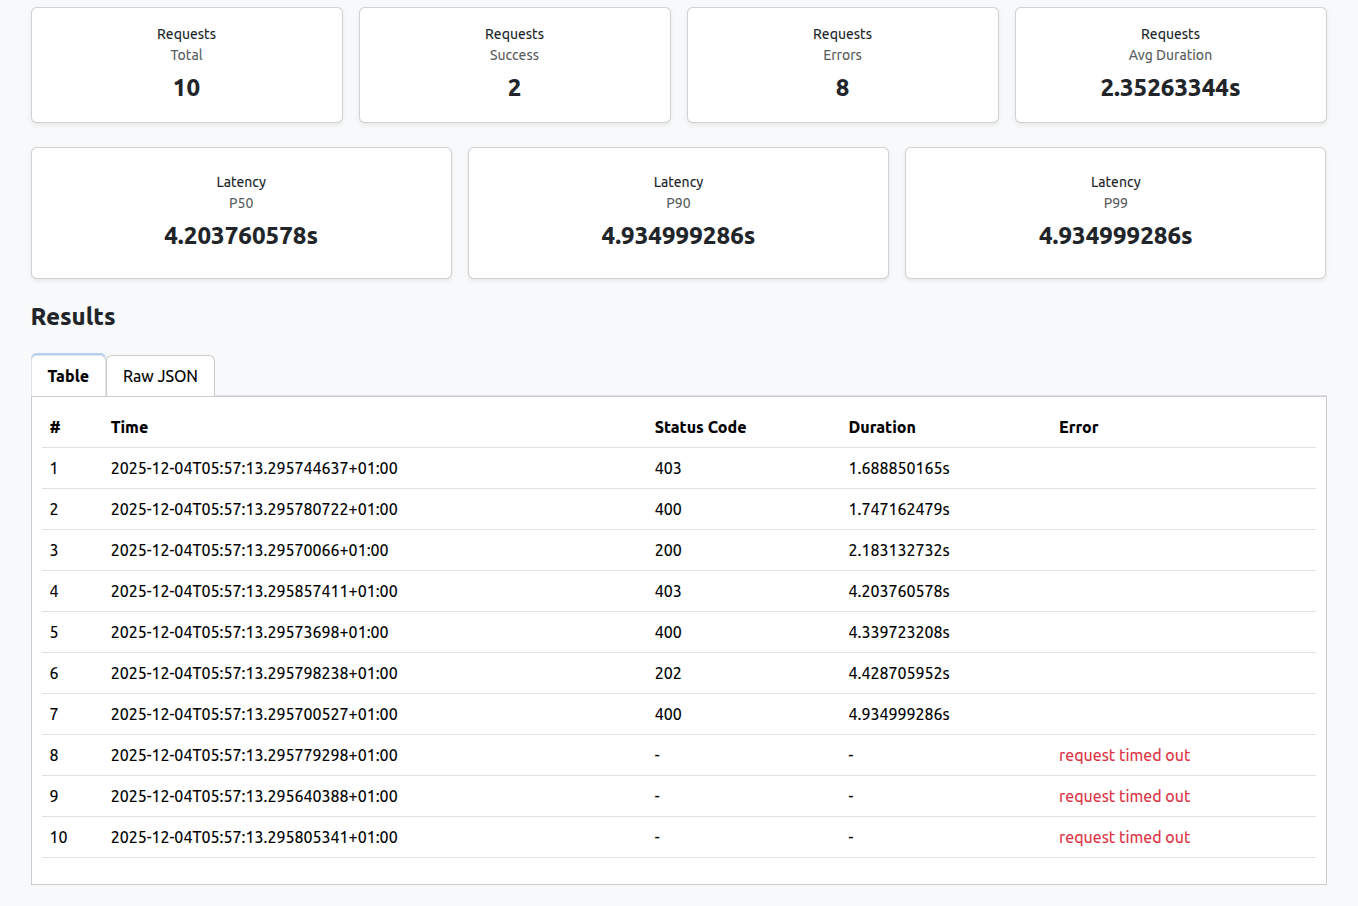
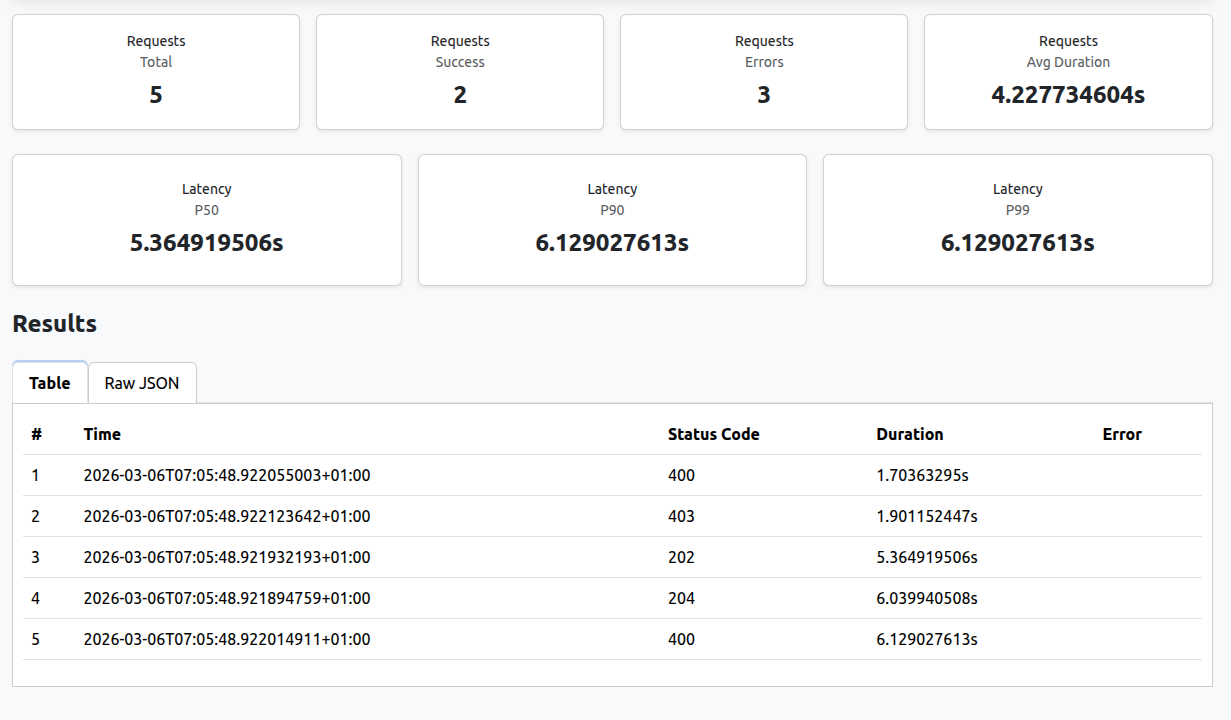
Update readme

diff --git a/README.md b/README.md
@@ -1,148 +1,154 @@
-# 🚀 ParallelHTTP
+<div align="center">
 
-A lightweight tool for testing APIs by sending multiple **parallel HTTP requests**.
+# ParallelHTTP
 
-It includes:
+**Send parallel HTTP requests. Measure latency. Stress-test your APIs.**
 
-- 💻 **Web UI**  
-- 🐳 **Docker image**  
-- 💼 **CLI mode**  
-- 🧩 **REST API endpoint**
+[![Go Version](https://img.shields.io/badge/go-1.24-00ADD8?logo=go&logoColor=white)](https://go.dev)
+[![Docker Pulls](https://img.shields.io/docker/pulls/nicumicle/parallelhttp)](https://hub.docker.com/r/nicumicle/parallelhttp)
+[![GitHub Release](https://img.shields.io/github/v/release/nicumicle/parallelhttp)](https://github.com/nicumicle/parallelhttp/releases)
+[![License: MIT](https://img.shields.io/badge/license-MIT-green)](./LICENSE)
 
----
+![Screenshot](./screenshot.png)
 
-## 🛠 Features
-
-- Send multiple parallel HTTP requests  
-- Configure method, endpoint, body, timeout  
-- Track response time & status  
-- Aggregated summary: success/error, avg latency  
-- Export responses to CSV  
-- Web UI for interactive testing  
-- CLI for quick terminal runs  
+</div>
 
 ---
 
-## ⚠ Disclaimer
+## Overview
 
-This tool is intended **only for testing APIs, servers, and domains that you own or have explicit permission to test**.  
-Running parallel or high-volume requests against systems without authorization may violate:
+ParallelHTTP is a lightweight, zero-dependency tool for load testing and benchmarking HTTP APIs. Configure the number of concurrent requests, method, timeout, and duration — then get back structured results with latency percentiles and per-request status codes.
 
-- Terms of Service  
-- Local or international laws  
-- Computer misuse or anti-fraud regulations  
-- Responsible use and security policies  
-
-> [!IMPORTANT]  
-> By using this tool, **you agree that you are solely responsible for ensuring you have proper authorization** to test the target systems.  
-> The authors and contributors of this project assume **no liability** for any misuse, damage, or legal consequences resulting from unauthorized or unethical use.
->
-> **Use responsibly. Test only what you own.**
+It ships as a single binary, a Docker image, and a Web UI — so you can use whichever fits your workflow.
 
 ---
 
-## 📦 Installation
+## Features
 
-You can use ParallelHTTP via **binary**, **Docker**, **Web UI**, or **CLI**.
+| | |
+|---|---|
+| Parallel requests | Fire N requests simultaneously and collect every response |
+| Latency percentiles | P50, P90, P99 aggregated across all requests |
+| Multiple output formats | `json`, `yaml`, or `text` |
+| Web UI | Visual interface for interactive testing in the browser |
+| CLI | Scriptable, CI-friendly terminal usage |
+| CSV export | Download results directly from the Web UI |
+| Test endpoint | Built-in endpoint that returns random responses for trying things out |
 
-### 1⃣ Install Using Binaries (Recommended)
+---
 
-Download the latest release from:  
-👉 [**GitHub Releases**](https://github.com/nicumicle/parallelhttp/releases)
+## Quick Start
 
-Run:
+The fastest way to get up and running:
 
 ```bash
+# Run the Web UI with Docker — no installation needed
+docker run --rm -p 8080:8080 nicumicle/parallelhttp
+```
+
+Then open [http://localhost:8080](http://localhost:8080) in your browser.
+
+---
+
+## Installation
+
+### Binary (Recommended)
+
+Download the pre-built binary for your OS from the [Releases page](https://github.com/nicumicle/parallelhttp/releases).
+
+**macOS / Linux:**
+```bash
+# Make it executable
+chmod +x parallelhttp
+
+# Confirm it works
 ./parallelhttp --help
 ```
 
-### 2⃣ Install From Source
+**Windows:**
+
+Download `parallelhttp.exe` and run it from Command Prompt or PowerShell:
+```powershell
+.\parallelhttp.exe --help
+```
+
+---
+
+### Docker
+
+```bash
+docker run --rm -p 8080:8080 nicumicle/parallelhttp
+```
+
+---
+
+### Build from Source
+
+Requires [Go 1.24+](https://go.dev/dl/).
 
 ```bash
 git clone https://github.com/nicumicle/parallelhttp.git
 cd parallelhttp
+
+# Build the binary
+go build -o parallelhttp ./cmd/cli/main.go
 ```
 
-## 🖥 Web UI
+---
 
-### ▶ Option A — Run the UI with Docker
+## Usage
 
-```shell
-docker run --rm -p 8080:8080 -it nicumicle/parallelhttp
-```
+### Web UI
 
-Open in browser:
-👉 [http://localhost:8080](http://localhost:8080)
+Start the server using any of the following methods:
 
-### ▶ Option B — Run the UI from cli
-
-```shell
+```bash
+# Using the binary
 ./parallelhttp --serve --port=8080
-```
 
-Open in browser:
-👉 [http://localhost:8080](http://localhost:8080)
+# Using Docker
+docker run --rm -p 8080:8080 nicumicle/parallelhttp
 
-### ▶ Option C — Run the UI from Go
-
-```shell
+# From source
 go run cmd/service/main.go
 ```
 
-This service also provides a testing endpoint:
+Open [http://localhost:8080](http://localhost:8080) in your browser.
 
-Test endpoint (returns random responses)
-👉 [http://localhost:8080/test](http://localhost:8080/test)
+**Results:**
 
-### 📷 Screenshots
+![Results Screenshot](./screenshot-2.png)
 
-![Screenshot](./screenshot.png)
+---
 
-Results:
+### CLI
 
-![Screenshot](./screenshot-2.png)
+Run parallel requests directly from your terminal.
 
-## 💼 CLI Usage
-
-You can run the CLI using the binary or from source.
-
-### ▶ Option A — CLI Binary
-
-```shell
-./parallelhttp --help
-```
-
-### ▶ Option B — Run CLI from Source
-
-```shell
-go run cmd/cli/main.go --help
-```
-
-```
-CLI Flags
-  -duration duration    Max duration for all calls. 0 = no limit
-  -endpoint string      Required. Target URL
-  -format string        text | yaml | json (default: json)
-  -method string        GET POST PUT PATCH DELETE (default: GET)
-  -parallel int         Number of parallel requests (default: 1)
-  -timeout duration     Request timeout (default: 10s)
-  -serve bool           Starts the HTTP server
-  -port int             Port for the HTTP Server(default: 8080)
-```
-
-Example
-
-```shell
-go run cmd/cli/main.go \
-  --endpoint=http://localhost:8080/test \
-  --parallel=5 \
+```bash
+./parallelhttp \
+  --endpoint=https://api.example.com/health \
+  --parallel=10 \
   --method=GET \
   --timeout=2s \
-  --duration=10s \
+  --duration=30s \
   --format=json
 ```
 
-Output:
+**Flags:**
+
+| Flag | Required | Description | Default |
+|------|----------|-------------|---------|
+| `--endpoint` | Yes | Target URL | — |
+| `--parallel` | No | Number of concurrent requests | `1` |
+| `--method` | No | HTTP method: `GET` `POST` `PUT` `PATCH` `DELETE` | `GET` |
+| `--timeout` | No | Per-request timeout (e.g. `500ms`, `2s`) | `10s` |
+| `--duration` | No | Total run duration (e.g. `30s`, `5m`). `0` = unlimited | `0` |
+| `--format` | No | Output format: `json` `yaml` `text` | `json` |
+| `--serve` | No | Start the Web UI server | — |
+| `--port` | No | Web UI server port | `8080` |
+
+**Example output (`--format=json`):**
 
 ```json
 {
@@ -150,85 +156,66 @@ Output:
     {
       "response": {
         "status_code": 200,
-        "time": "2025-12-02T04:39:26.450811405+01:00",
+        "time": "2025-12-02T04:39:26.450811Z",
         "duration": 176680135,
-        "duration_h": "176.680135ms"
-      },
-      "error": null,
-      "error_message": null
-    },
-    {
-      "response": {
-        "status_code": 200,
-        "time": "2025-12-02T04:39:26.450838753+01:00",
-        "duration": 177105875,
-        "duration_h": "177.105875ms"
-      },
-      "error": null,
-      "error_message": null
-    },
-    {
-      "response": {
-        "status_code": 200,
-        "time": "2025-12-02T04:39:26.450989804+01:00",
-        "duration": 176999320,
-        "duration_h": "176.99932ms"
-      },
-      "error": null,
-      "error_message": null
-    },
-    {
-      "response": {
-        "status_code": 200,
-        "time": "2025-12-02T04:39:26.450761076+01:00",
-        "duration": 177158817,
-        "duration_h": "177.158817ms"
-      },
-      "error": null,
-      "error_message": null
-    },
-    {
-      "response": {
-        "status_code": 200,
-        "time": "2025-12-02T04:39:26.450879196+01:00",
-        "duration": 179940733,
-        "duration_h": "179.940733ms"
+        "duration_h": "176.68ms"
       },
       "error": null,
       "error_message": null
     }
   ],
   "stats": {
-    "start_time": "2025-12-02T04:39:26.450727731+01:00",
-    "end_time": "2025-12-02T04:39:26.630824982+01:00",
-    "duration": "180.097251ms",
+    "start_time": "2025-12-02T04:39:26.450727Z",
+    "end_time": "2025-12-02T04:39:26.630824Z",
+    "duration": "180.09ms",
     "latency": {
-      "p50": "177.105875ms",
-      "p90": "179.940733ms",
-      "p99": "179.940733ms"
+      "p50": "177.10ms",
+      "p90": "179.94ms",
+      "p99": "179.94ms"
     }
   }
 }
 ```
 
-## 🧩 REST Endpoint
+---
 
-When running the UI service:
+### REST API
 
-```shell
+When the server is running, a built-in test endpoint is available that returns random HTTP responses. It is useful for verifying your setup before pointing the tool at a real API.
+
+```bash
 curl http://localhost:8080/test
 ```
 
-## 🧡 Credits
+---
 
-Built with [Go](https://go.dev/), [Bootstrap](https://getbootstrap.com/), and curiosity.
+## Responsible Use
 
+> [!IMPORTANT]
+> ParallelHTTP is intended **only for testing APIs, servers, and domains you own or have explicit permission to test.**
+>
+> Sending high-volume requests to systems without authorization may violate terms of service, computer misuse laws, or security policies. **The authors assume no liability for any misuse.**
+>
+> Test only what you own.
 
-## 📝 License
+---
 
-Licensed under the MIT License.
-See the full license here: [LICENSE](./LICENSE)
+## Contributing
 
-## ⭐ Support
+Contributions are welcome. Please open an issue to discuss significant changes before submitting a pull request.
 
-If you like this project, give it a ⭐ and share it with your friends!
+---
+
+## License
+
+MIT — see [LICENSE](./LICENSE) for details.
+
+---
+
+<div align="center">
+
+Built with [Go](https://go.dev/) and [Bootstrap](https://getbootstrap.com/).
+
+If you find this useful, give it a ⭐
+
+</div>
